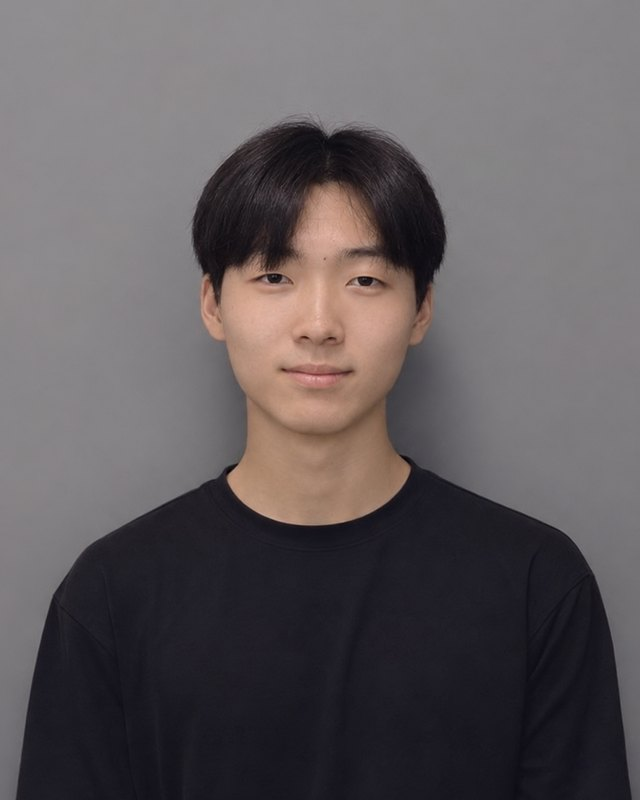
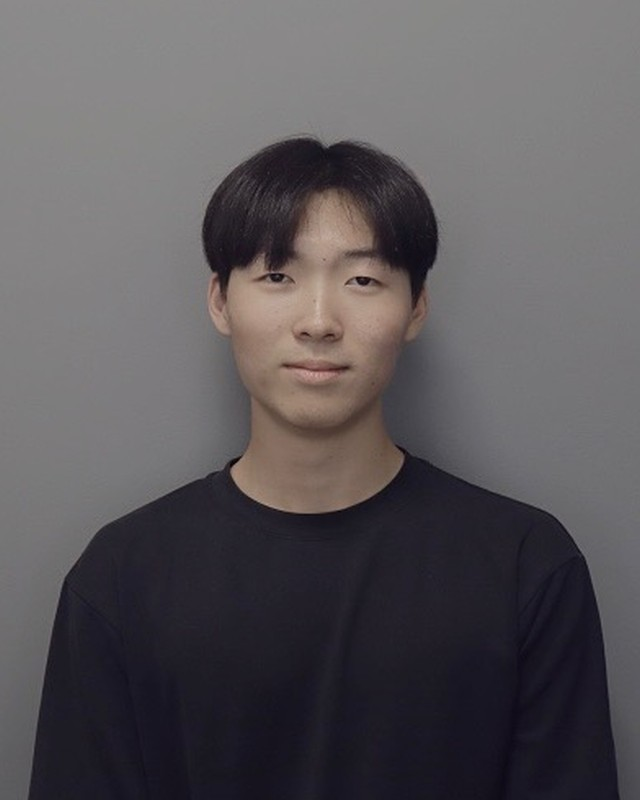
Founder photos: the founders' new edits, same framing
Both re-cropped from "Jason - Official.jpeg" and "Allison - Official.jpeg"
(Nov 11), no color changes: eye line 35% from the top, faces the same size
(eye to chin), 640x800 JPG, no EXIF.

Claude-Session: https://claude.ai/code/session_016ECcn6rEAfg41MdqzsDs9m

diff --git a/CLAUDE.md b/CLAUDE.md
@@ -34,6 +34,6 @@ Read this before every change. It is the only context you have about this organi
 - Mobile-friendly on every page. Check a 390px-wide phone layout.
 
 ## Placeholders still open
-- Donation link is live: https://www.zeffy.com/en-US/donation-form/support-heartlines-international (every Donate button points there, opening in a new tab). Founder photos are live (Nov 11, 2026): matching "Official" headshots of Jason and Allison on the same gray background (Allison's re-lit original from the founders, "Allison - Official.png", used as is with no color changes), cropped 4:5 at 640x800 with the same framing (head to mid-chest; eye line 35% from the top; both faces the same size, measured eye to chin), EXIF stripped; shown as rounded 4:5 `.headshot` images, and listed as `image` in the JSON-LD. Board row: Joshua Kim (photo still needed) and Hyungjun Ham (intentionally the placeholder) show images/team/profile-placeholder.svg as a 72px circle, smaller because those are supporting roles (Nov 6, 2026).
+- Donation link is live: https://www.zeffy.com/en-US/donation-form/support-heartlines-international (every Donate button points there, opening in a new tab). Founder photos are live (Nov 11, 2026): matching "Official" headshots of Jason and Allison on the same gray background (the founders' edited "Jason - Official.jpeg" and "Allison - Official.jpeg", Nov 11, used as is with no color changes), cropped 4:5 at 640x800 with the same framing (head to mid-chest; eye line 35% from the top; crop width = 4.26 x eye-to-chin distance so both faces are the same size), EXIF stripped. The sources are only about 500x600, so the crops are upscaled about 1.7x; replace them with higher-resolution exports if the founders have them; shown as rounded 4:5 `.headshot` images, and listed as `image` in the JSON-LD. Board row: Joshua Kim (photo still needed) and Hyungjun Ham (intentionally the placeholder) show images/team/profile-placeholder.svg as a 72px circle, smaller because those are supporting roles (Nov 6, 2026).
 - Instagram: https://www.instagram.com/heartlinesinternational/ (@heartlinesinternational).
 - Chipotle fundraiser held Nov 8, 2026 (Chipotle reports $92.71 for HINT from $370.84 in sales; check expected about Dec 10). Its site mentions and `src/_data/fundraiser.js` were removed in the Nov 10 cleanup. Keep the files in images/chipotle/ until the check arrives. Don't alter Chipotle's official flyer if it's ever added.
